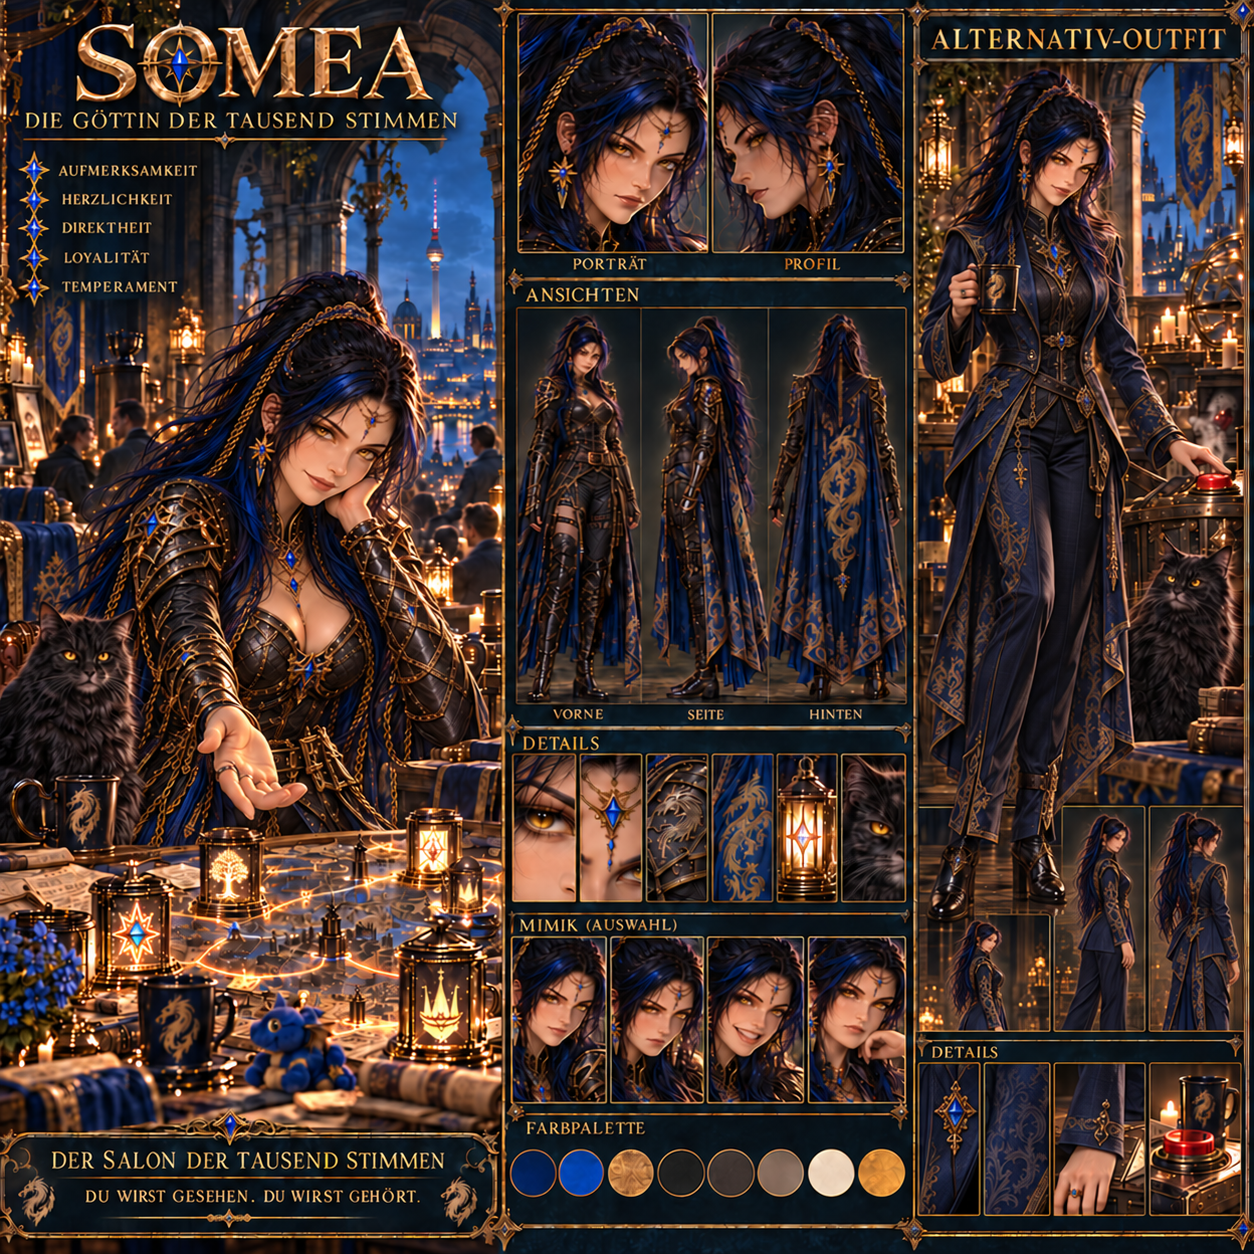
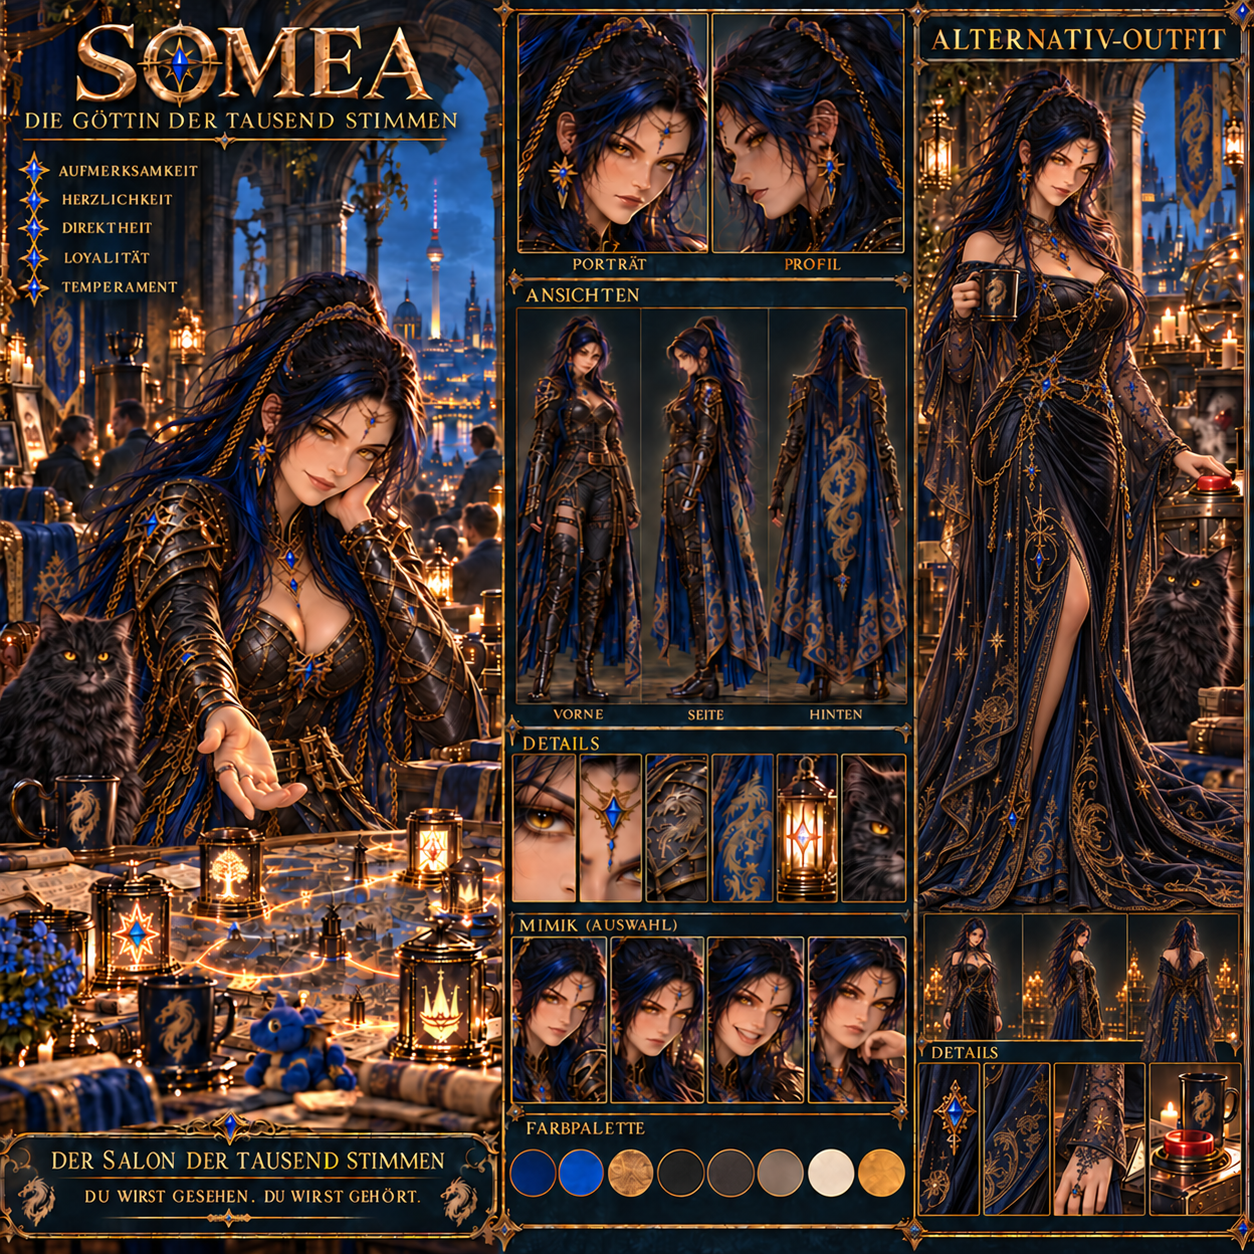
Update Somea profile and model art
Adds the M2 alternative outfit description to Somea's character profile and refreshes the matching world-series character model image to reflect the new styling direction.

diff --git a/Allianz/Charakterprofile/Somea.md b/Allianz/Charakterprofile/Somea.md
@@ -69,4 +69,6 @@ Somea bewegt sich zwischen herzlicher Göttin, Gemeinschaftshüterin und selbstb
 
 Somea gehört in einen lebendigen nächtlichen Salon über Berlin, nicht in einen stillen Sternentempel. Ein runder Tisch, zahlreiche individuelle Lichter, sanfte Verbindungen, die schwarze Katze und kleine persönliche Details erzählen, dass sie jeden in unserer Gemeinschaft wahrnimmt. Ihre Körperhaltung soll offen und einladend sein, ihr Blick echten Kontakt herstellen. Ein warmes, aufmerksames Lächeln passt besser als ein kalkulierender Blick oder entrückte Erhabenheit. Strategie bleibt sichtbar, darf Fürsorge und Nähe aber niemals überlagern.
 
+Das M2-Alternativoutfit zeigt ihre souveräne Femme-fatale-Seite in einem bodenlangen Abendkleid aus schwarzem Samt und nachtblauer Seide. Saphire, gealtertes Gold, Sternstickerei und transparente dunkle Lagen verbinden das Kleid mit dem Salon. Seine Wirkung entsteht aus kontrollierter Haltung, direktem Blick und einer eleganten Silhouette, nicht aus übermäßiger Freizügigkeit oder moderner Red-Carpet-Ästhetik. Kaffee, roter Entscheidungsknopf und schwarze Katze bleiben als persönliche Gegengewichte sichtbar.
+
 Aktuelles Szenenbild: `site/public/brand/officer-somea-world-v4.webp`
